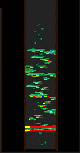
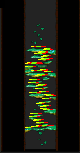
[Feat] Draw the route on rows the character was measured standing on
Both ways of reading platforms out of map.png disagree with where the dot
actually rests. Connected component boxes merge ledges at the same height and
drop the ones absorbed into a taller neighbour; terrain top edges fragment the
wide lower walkway, because the mushroom caps overlap visually. Either way the
route lines sat a few rows off, which is enough to hand the character another
level's command, and chasing that is what the last several route attempts were.

tools/measure_standing_rows.py samples the dot while the map is walked, by hand
or by the bot, and reports the rows it dwells on with the x span it reached.
tools/make_route_from_measurement.py draws from those numbers: every row walks
left across a down-jump band into a goal at its left edge on route1, and right
across an up-jump band into a goal at its right edge on route2. Nothing in that
needs to know which platform sits under which, and a jump that does not land
just walks on to the row's goal rather than deadlocking.

Each row uses only its own measured span. Borrowing a neighbour's looked like
slack but a neighbouring row is usually a different platform: row 127 measured
x26-29, and merging that into row 126 put its goal past the edge the character
can reach, so it pressed left against the drop for a minute.

Measured over 80s against the previous route: rows visited 4 -> 12, stuck
warnings 7 -> 2.

Changed region(s): [[0.3, 0.2876, 0.7, 0.8627]]

diff --git a/tools/make_route_from_measurement.py b/tools/make_route_from_measurement.py
@@ -1,0 +1,94 @@
+"""Draw the route on rows the character was measured standing on.
+
+Every earlier route was drawn on rows derived from the map image, and both
+derivations disagreed with reality by a few rows - enough to hand the character
+another level's command. These rows come from watching where the dot actually
+rested while the map was walked by hand.
+
+The layout deliberately avoids needing to know which platform sits under which:
+
+  route1  every row walks LEFT, crosses a down-jump band, ends at a goal on the
+          left edge
+  route2  every row walks RIGHT, crosses an up-jump band, ends at a goal on the
+          right edge
+
+So the character falls its way down, hands over, climbs its way up, hands back.
+A jump that does not land costs nothing: it keeps walking and takes the row's
+goal instead, which is still progress rather than a deadlock.
+"""
+import cv2, yaml, sys, os
+
+ROOT = r"C:\Users\d0981\MapleStoryAutoLevelUp"
+sys.path.insert(0, ROOT); os.chdir(ROOT)
+D = "minimaps/south_forest_training_ground_1"
+cfg = yaml.safe_load(open("config/config_default.yaml", encoding="utf-8"))
+RGB = {v: tuple(map(int, k.split(','))) for k, v in cfg["route"]["color_code"].items()}
+bgr = lambda c: (c[2], c[1], c[0])
+codes = {tuple(map(int, k.split(','))): v for k, v in cfg["route"]["color_code"].items()}
+
+# row -> (hits, x0, x1), measured over 150s of hand driving
+H = {
+    46: (22, 31, 45), 48: (4, 46, 48), 49: (15, 43, 52), 51: (4, 41, 45),
+    52: (8, 40, 45), 53: (17, 34, 45), 55: (6, 45, 48), 56: (9, 43, 45),
+    58: (5, 43, 50), 59: (8, 40, 47), 62: (6, 27, 41), 63: (16, 25, 42),
+    66: (13, 25, 35), 69: (4, 42, 45), 70: (16, 31, 47), 71: (7, 44, 52),
+    74: (7, 39, 45), 75: (6, 37, 42), 79: (11, 31, 37), 82: (14, 28, 38),
+    84: (4, 40, 44), 85: (9, 38, 43), 88: (11, 35, 43), 91: (11, 39, 48),
+    92: (12, 31, 38), 94: (4, 46, 51), 95: (8, 48, 53), 98: (8, 44, 48),
+    102: (7, 41, 43), 103: (6, 38, 41), 105: (4, 45, 48), 106: (4, 42, 44),
+    108: (4, 42, 46), 109: (12, 43, 52), 113: (8, 32, 39), 116: (7, 31, 37),
+    119: (4, 36, 41), 120: (6, 35, 38), 122: (5, 38, 45), 125: (8, 36, 53),
+    126: (6, 31, 39), 127: (3, 26, 29),
+}
+# Use each row's OWN measured reach. Borrowing a neighbour's range looked like
+# useful slack but a neighbouring row is often a different platform: row 127 was
+# measured at x26-29, and merging that into row 126 put row 126's goal at x26,
+# out past the edge the character can actually walk to. It then pressed left
+# against the drop for a minute.
+rows = sorted(H)
+SPAN = {r: (H[r][1], H[r][2]) for r in rows}
+
+m = cv2.imread(f"{D}/map.png")
+r1, r2 = m.copy(), m.copy()
+GOAL, BAND = 3, 4
+
+for r in rows:
+    x0, x1 = SPAN[r]
+    if x1 - x0 + 1 < GOAL + BAND + 2:
+        x0, x1 = max(25, x0 - 2), min(55, x1 + 2)
+    c = (x0 + x1) // 2
+
+    # route1: goal at the left edge, walk left, down jump band in the middle
+    r1[r, x0 + GOAL:x1 + 1] = bgr(RGB["left none none"])
+    r1[r, c - BAND // 2:c + BAND // 2 + 1] = bgr(RGB["none down jump"])
+    r1[r, x0:x0 + GOAL] = bgr(RGB["none none goal"])
+
+    # route2: goal at the right edge, walk right, up jump band in the middle
+    r2[r, x0:x1 + 1 - GOAL] = bgr(RGB["right none none"])
+    r2[r, c - BAND // 2:c + BAND // 2 + 1] = bgr(RGB["right none jump"])
+    r2[r, x1 + 1 - GOAL:x1 + 1] = bgr(RGB["none none goal"])
+
+cv2.imwrite(f"{D}/route1.png", r1)
+cv2.imwrite(f"{D}/route2.png", r2)
+print(f"drew {len(rows)} measured rows on both routes")
+
+# the character must find a command wherever it was ever seen standing
+miss = []
+for name, img in (("route1", r1), ("route2", r2)):
+    rgb = cv2.cvtColor(img, cv2.COLOR_BGR2RGB)
+    for r in rows:
+        for x in range(H[r][1], H[r][2] + 1):
+            if tuple(int(v) for v in rgb[r, x]) not in codes:
+                miss.append((name, r, x))
+print(f"measured positions with no command: {len(miss)}")
+print("sample row 92 on each route:")
+for name, img in (("route1", r1), ("route2", r2)):
+    rgb = cv2.cvtColor(img, cv2.COLOR_BGR2RGB)
+    runs = []
+    for x in range(25, 56):
+        c = codes.get(tuple(int(v) for v in rgb[92, x]))
+        if runs and runs[-1][2] == c:
+            runs[-1][1] = x
+        else:
+            runs.append([x, x, c])
+    print(f"  {name}: " + "  ".join(f"x{a}-{b}:{c}" for a, b, c in runs if c))

diff --git a/tools/measure_standing_rows.py b/tools/measure_standing_rows.py
@@ -1,0 +1,75 @@
+"""Measure where the character actually stands, instead of deriving it.
+
+Every route so far was drawn on rows taken from the map image - first from blob
+bounding boxes, then from terrain top edges. Both disagree with where the dot
+really sits by a few rows, and a few rows is enough to hand the character the
+wrong level's command. The bottom walkway needed rows 125-127 while extraction
+claimed 130.
+
+So drive the character around and record the rows it occupies. Rows it never
+occupies are not walkable, whatever the image suggests; rows it rests on are
+exactly where the route lines belong.
+"""
+import sys, time, cv2, os
+from collections import Counter
+sys.path.insert(0, r"C:\Users\d0981\MapleStoryAutoLevelUp")
+os.chdir(r"C:\Users\d0981\MapleStoryAutoLevelUp")
+from src.utils.common import (load_yaml, override_cfg, get_minimap_loc_size,
+                              get_player_location_on_minimap, find_pattern_sqdiff,
+                              load_image)
+from src.input.GameWindowCapturor import GameWindowCapturor
+
+cfg = override_cfg(load_yaml('config/config_default.yaml'),
+                   load_yaml('config/config_custom.yaml'))
+img_map = load_image("minimaps/south_forest_training_ground_1/map.png", cv2.IMREAD_COLOR)
+tb = cfg["game_window"]["title_bar_height"]
+cap = GameWindowCapturor(cfg)
+
+def sample():
+    if cap.frame is None:
+        return None
+    nt = cap.frame[tb:, :]
+    im = cv2.cvtColor(nt, cv2.COLOR_BGRA2BGR) if nt.shape[2] == 4 else nt
+    w = cv2.resize(im, (1296, 700), interpolation=cv2.INTER_NEAREST)
+    r = get_minimap_loc_size(w)
+    if r is None:
+        return None
+    x, y, ww, hh = [int(v) for v in r]
+    mm = w[y+1:y+hh-1, x+1:x+ww-1]
+    d = get_player_location_on_minimap(mm, minimap_player_color=cfg["minimap"]["player_color"])
+    if d is None:
+        return None
+    loc, _, _ = find_pattern_sqdiff(img_map, mm)
+    return (loc[0] + d[0], loc[1] + d[1])
+
+DURATION = float(sys.argv[1]) if len(sys.argv) > 1 else 120
+pts, t0 = [], time.time()
+while time.time() - t0 < DURATION:
+    s = sample()
+    if s:
+        pts.append(s)
+    time.sleep(0.4)
+
+cap.is_terminated = True
+try:
+    cap.capture_control.stop()
+except Exception:
+    pass
+
+rows = Counter(p[1] for p in pts)
+print(f"{len(pts)} samples over {DURATION:.0f}s\n")
+print(f"{'row':>4} {'hits':>5}  {'x range':>10}  {'':<20}")
+for r in sorted(rows):
+    xs = [p[0] for p in pts if p[1] == r]
+    bar = "#" * min(40, rows[r])
+    print(f"{r:4d} {rows[r]:5d}  {min(xs):3d}-{max(xs):<3d}   {bar}")
+print("\nrows holding >=3% of samples are real standing levels:")
+th = max(2, len(pts) * 0.03)
+levels = []
+for r in sorted(rows):
+    if rows[r] >= th:
+        xs = [p[0] for p in pts if p[1] == r]
+        levels.append((r, min(xs), max(xs)))
+for r, a, b in levels:
+    print(f"   row {r:3d}  x{a}-{b}")
+print("\nMEASURED = " + repr(levels))
